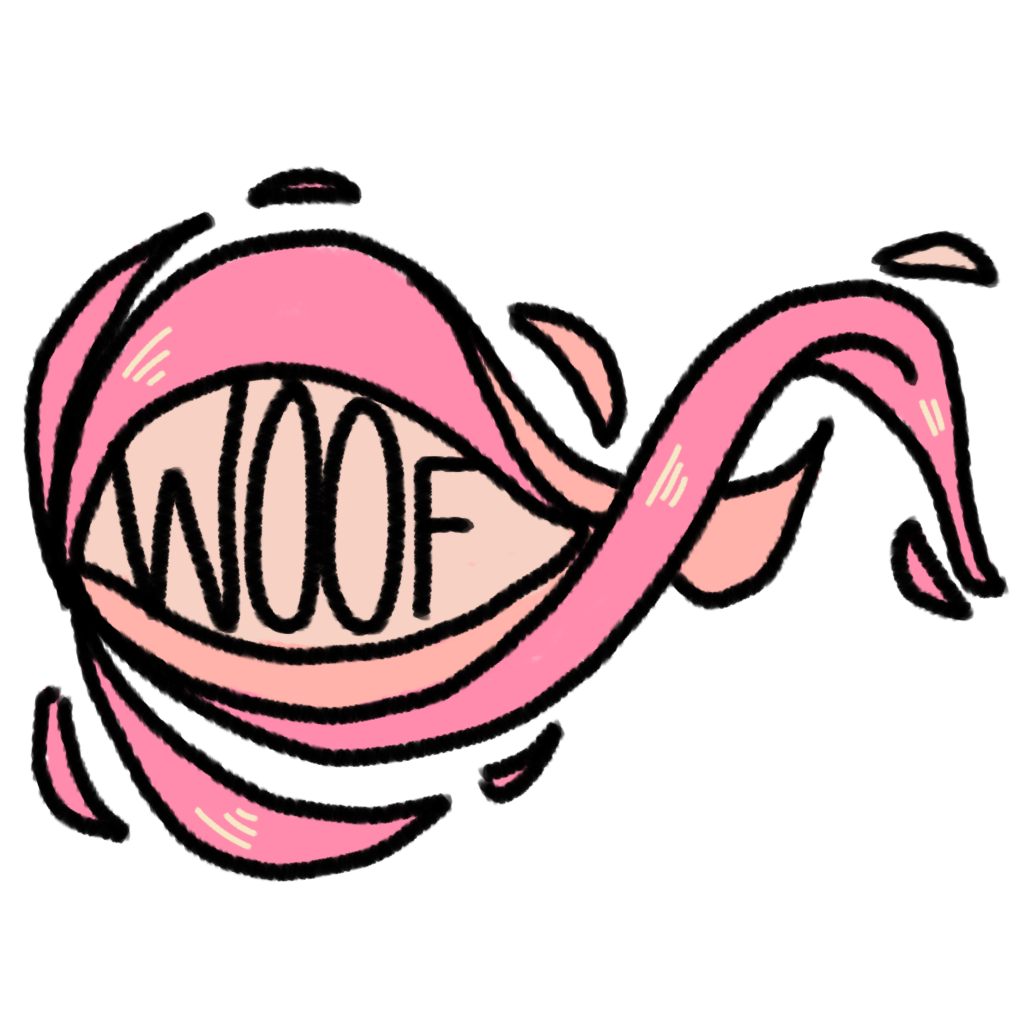
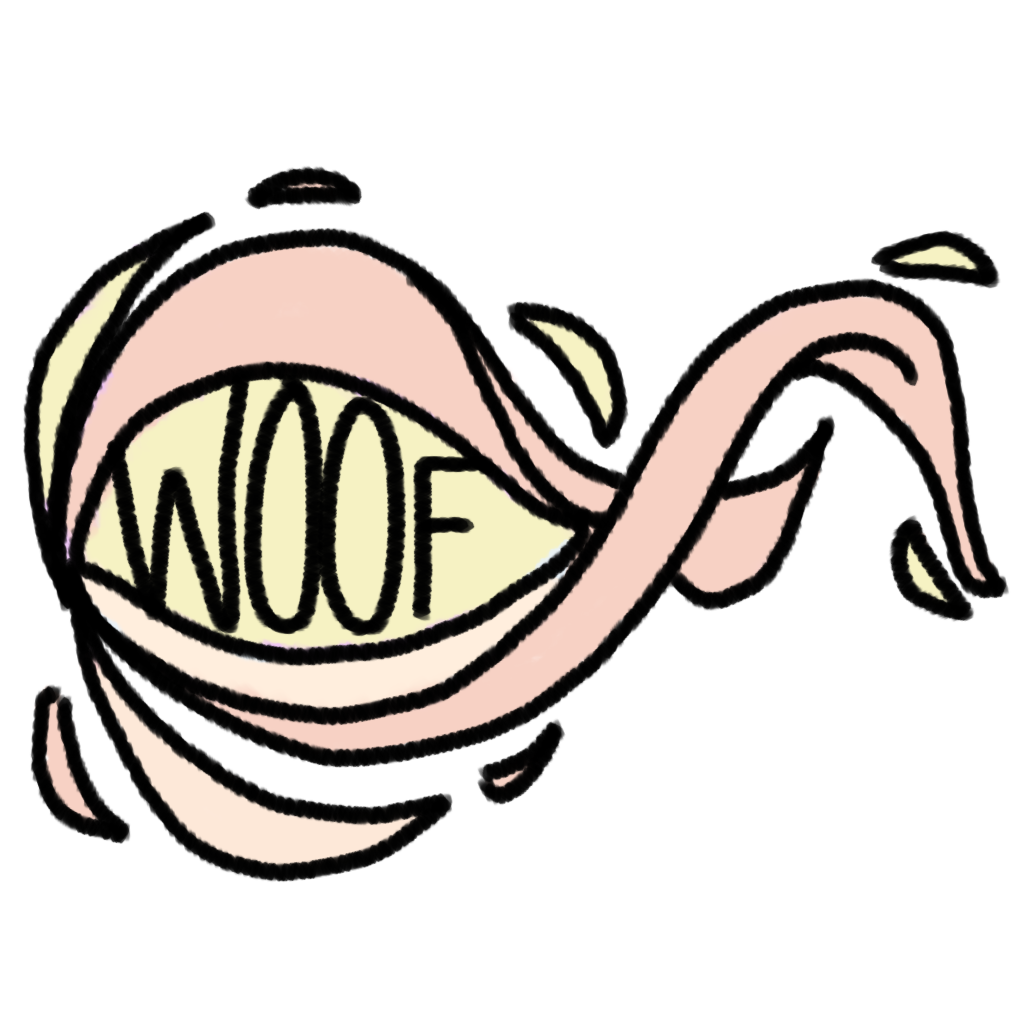
boss resized and woofs colour change

diff --git a/nogroup-2/utils/engine.py b/nogroup-2/utils/engine.py
@@ -135,17 +135,17 @@ class Boss(pygame.sprite.Sprite): #spawn enemies
         self.HEIGHT = HEIGHT
         self.WIDTH = WIDTH
         pygame.sprite.Sprite.__init__(self)
-        self.image = pygame.Surface((250,450))
+        self.image = pygame.Surface((150,350))
         #self.image.fill((0,255,0))
 
         boss_img = pygame.image.load('images/game/mob/cerberwoof.png').convert_alpha()
         self.image = boss_img
         
-        self.image = pygame.transform.scale(boss_img, (250, 450))
+        self.image = pygame.transform.scale(boss_img, (150, 350))
         self.rect = self.image.get_rect()
         
-        self.rect.y = (HEIGHT/2) - 225#spanwns them on x axis outside of screen to the right
-        self.rect.x = WIDTH - 250
+        self.rect.y = (HEIGHT/2) - 175#spanwns them on x axis outside of screen to the right
+        self.rect.x = WIDTH - 150
         self.speedy = 4
 
 
@@ -157,7 +157,7 @@ class Boss_Bullet(pygame.sprite.Sprite):
     def __init__(self,pos_x,pos_y):
         super().__init__()
         self.image = pygame.Surface((50, 10))
-        boss_bullet_img = pygame.image.load('images/game/mob/woof1.png').convert_alpha()
+        boss_bullet_img = pygame.image.load('images/game/mob/bossbullet.png').convert_alpha()
         self.image = boss_bullet_img
         
         self.image = pygame.transform.scale(boss_bullet_img, (100, 100))
